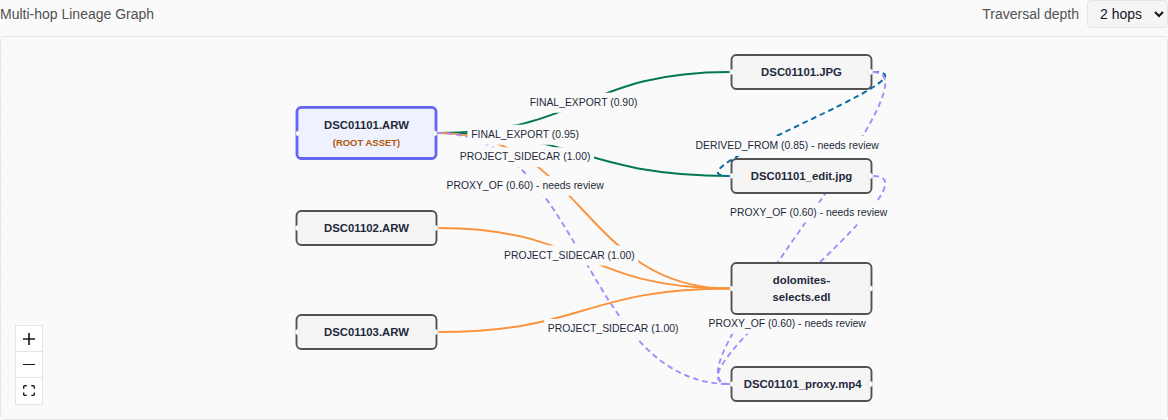
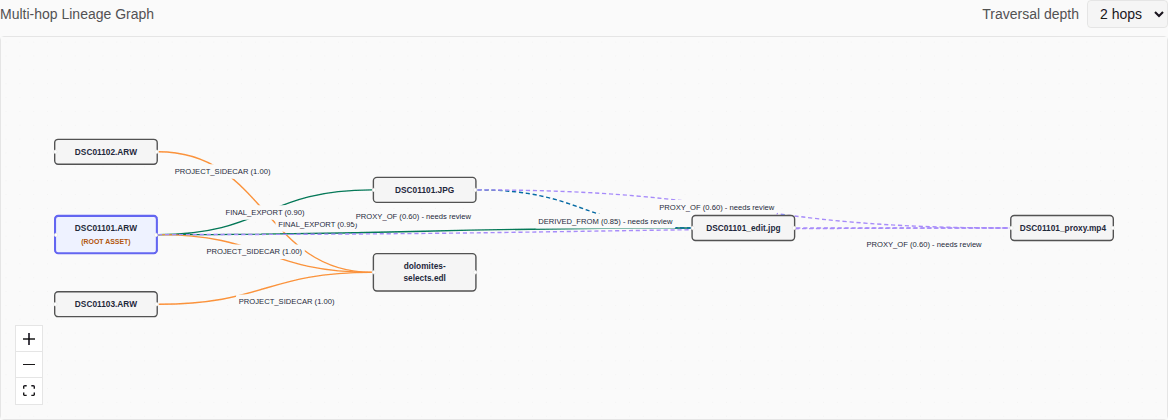
fix(web): lay out the lineage graph by edge direction so no edge loops back (#599)
Columns came from BFS hop distance off the focused asset, so two nodes joined
by an edge could land in the same column and the edge had to loop out of one
right handle and back into the other's left (DSC01101.JPG -> DSC01101_edit.jpg
in the demo). Rank by longest path instead, one column right of the deepest
parent, so every edge is forward. Within a column, nodes are ordered by the
mean height of their parents, then id, to keep edges from crossing and the
order stable across refetches.

No new dependency: these are small DAGs and the ranking is ~40 lines. A back
edge in malformed data is ignored rather than recursed on.

Regenerates asset-graph{,-light}.png. Edges that skip a column can still run
behind a node in between; tracked separately.

Closes #595

Claude-Session: https://claude.ai/code/session_01YT45bsDB4fuLrcMKgwwJBG

diff --git a/web/src/components/AssetGraphCanvas.tsx b/web/src/components/AssetGraphCanvas.tsx
@@ -4,9 +4,10 @@ import { Background, Controls, Position, ReactFlow, ReactFlowProvider, type Node
 import "@xyflow/react/dist/style.css";
 import type { AssetGraph, LineageResponse } from "../api/types";
 import { edgeVisual, labelSpread, type LineageFlowEdge } from "../lib/edgeStyle";
+import { lineageRanks, lineageRows } from "../lib/lineageLayout";
 import LineageEdge from "./LineageEdge";
 
-// Levels run left to right, so edges leave a node's right side and enter the
+// Columns run left to right, so edges leave a node's right side and enter the
 // next one's left; the default top/bottom handles made every edge loop around
 // its nodes and park its label on top of them.
 const HORIZONTAL_HANDLES = { sourcePosition: Position.Right, targetPosition: Position.Left } as const;
@@ -109,73 +110,14 @@ export function buildLineageFlow(rootId: number, lineage: LineageResponse): { no
     return { nodes: [], edges: [], isEmpty: true };
   }
 
-  // Calculate BFS levels relative to root
-  const levels = new Map<number, number>();
-  levels.set(rootId, 0);
-
-  const adjParents = new Map<number, number[]>();
-  const adjChildren = new Map<number, number[]>();
-
-  lineage.edges.forEach((e) => {
-    if (!adjChildren.has(e.sourceNodeId)) adjChildren.set(e.sourceNodeId, []);
-    adjChildren.get(e.sourceNodeId)!.push(e.targetNodeId);
-
-    if (!adjParents.has(e.targetNodeId)) adjParents.set(e.targetNodeId, []);
-    adjParents.get(e.targetNodeId)!.push(e.sourceNodeId);
-  });
-
-  // BFS Upstream (Parents)
-  const qUp: { id: number; level: number }[] = [{ id: rootId, level: 0 }];
-  const visitedUp = new Set<number>([rootId]);
-  while (qUp.length > 0) {
-    const curr = qUp.shift()!;
-    const parents = adjParents.get(curr.id) || [];
-    parents.forEach((p) => {
-      if (!visitedUp.has(p)) {
-        visitedUp.add(p);
-        const l = curr.level - 1;
-        levels.set(p, l);
-        qUp.push({ id: p, level: l });
-      }
-    });
-  }
-
-  // BFS Downstream (Children)
-  const qDown: { id: number; level: number }[] = [{ id: rootId, level: 0 }];
-  const visitedDown = new Set<number>([rootId]);
-  while (qDown.length > 0) {
-    const curr = qDown.shift()!;
-    const children = adjChildren.get(curr.id) || [];
-    children.forEach((c) => {
-      if (!visitedDown.has(c)) {
-        visitedDown.add(c);
-        const l = curr.level + 1;
-        levels.set(c, l);
-        qDown.push({ id: c, level: l });
-      }
-    });
-  }
-
-  // Group nodes by level to compute deterministic positions
-  const levelGroups = new Map<number, number[]>();
-  lineage.nodes.forEach((n) => {
-    const l = levels.get(n.id) ?? 0;
-    if (!levelGroups.has(l)) levelGroups.set(l, []);
-    levelGroups.get(l)!.push(n.id);
-  });
-
-  // Sort node IDs inside level groups for deterministic ordering across refetches
-  levelGroups.forEach((ids) => ids.sort((a, b) => a - b));
+  const ranks = lineageRanks(lineage.nodes.map((n) => n.id), lineage.edges);
+  const rows = lineageRows(ranks, lineage.edges);
 
   const nodes: FlowNode[] = [];
   lineage.nodes.forEach((n) => {
     const isRoot = n.id === rootId;
-    const l = levels.get(n.id) ?? 0;
-    const group = levelGroups.get(l) || [n.id];
-    const index = group.indexOf(n.id);
-
-    const x = l * LEVEL_GAP_X;
-    const y = (index - (group.length - 1) / 2) * 110;
+    const x = (ranks.get(n.id) ?? 0) * LEVEL_GAP_X;
+    const y = rows.get(n.id) ?? 0;
 
     const colors = getNodeCategoryColor(n.fileExt || "");
 

diff --git a/web/src/lib/lineageLayout.ts b/web/src/lib/lineageLayout.ts
@@ -1,0 +1,82 @@
+/** Edge endpoints are all the layout needs; the API's Edge type satisfies it. */
+export interface LayoutEdge {
+  sourceNodeId: number;
+  targetNodeId: number;
+}
+
+/** Vertical gap between nodes in one column. */
+export const ROW_GAP_Y = 110;
+
+/**
+ * Assigns each node a column (rank) so every edge points left to right: a node
+ * sits one column right of its deepest parent (longest-path layering). Ranking
+ * from edge direction, rather than by hop distance from the focused asset,
+ * means two nodes joined by an edge never share a column, so no edge has to
+ * loop back around its own nodes.
+ *
+ * Lineage is a DAG (the graph package refuses cycles), but a back edge in
+ * malformed data is ignored rather than recursing forever.
+ */
+export function lineageRanks(nodeIds: number[], edges: LayoutEdge[]): Map<number, number> {
+  const known = new Set(nodeIds);
+  const parents = new Map<number, number[]>();
+  edges.forEach((e) => {
+    if (e.sourceNodeId === e.targetNodeId || !known.has(e.sourceNodeId) || !known.has(e.targetNodeId)) return;
+    if (!parents.has(e.targetNodeId)) parents.set(e.targetNodeId, []);
+    parents.get(e.targetNodeId)!.push(e.sourceNodeId);
+  });
+
+  const ranks = new Map<number, number>();
+  const visiting = new Set<number>();
+  const visit = (id: number): number => {
+    const done = ranks.get(id);
+    if (done !== undefined) return done;
+    if (visiting.has(id)) return -1; // back edge: contributes nothing
+    visiting.add(id);
+    let rank = 0;
+    for (const p of parents.get(id) ?? []) {
+      const parentRank = visit(p);
+      if (parentRank >= 0) rank = Math.max(rank, parentRank + 1);
+    }
+    visiting.delete(id);
+    ranks.set(id, rank);
+    return rank;
+  };
+  [...nodeIds].sort((a, b) => a - b).forEach(visit);
+  return ranks;
+}
+
+/**
+ * Vertical position of every node: columns are stacked and centred, with each
+ * node ordered by the mean height of its parents (then id, for a stable order
+ * across refetches) so edges between neighbouring columns run roughly flat
+ * instead of crossing.
+ */
+export function lineageRows(ranks: Map<number, number>, edges: LayoutEdge[]): Map<number, number> {
+  const parents = new Map<number, number[]>();
+  edges.forEach((e) => {
+    if (!ranks.has(e.sourceNodeId) || !ranks.has(e.targetNodeId)) return;
+    if (!parents.has(e.targetNodeId)) parents.set(e.targetNodeId, []);
+    parents.get(e.targetNodeId)!.push(e.sourceNodeId);
+  });
+
+  const columns = new Map<number, number[]>();
+  ranks.forEach((rank, id) => {
+    if (!columns.has(rank)) columns.set(rank, []);
+    columns.get(rank)!.push(id);
+  });
+
+  const y = new Map<number, number>();
+  [...columns.keys()]
+    .sort((a, b) => a - b)
+    .forEach((rank) => {
+      const ids = columns.get(rank)!;
+      const barycentre = (id: number): number => {
+        const placed = (parents.get(id) ?? []).filter((p) => y.has(p));
+        return placed.length === 0 ? 0 : placed.reduce((sum, p) => sum + y.get(p)!, 0) / placed.length;
+      };
+      ids.sort((a, b) => barycentre(a) - barycentre(b) || a - b);
+      ids.forEach((id, i) => y.set(id, (i - (ids.length - 1) / 2) * ROW_GAP_Y));
+    });
+  return y;
+}

diff --git a/web/src/lib/lineageLayout.test.ts b/web/src/lib/lineageLayout.test.ts
@@ -1,0 +1,54 @@
+import { describe, expect, it } from "vitest";
+import { lineageRanks, lineageRows, ROW_GAP_Y } from "./lineageLayout";
+
+const e = (sourceNodeId: number, targetNodeId: number) => ({ sourceNodeId, targetNodeId });
+
+describe("lineageRanks (#595)", () => {
+  it("puts a child one column right of its deepest parent, so same-level edges disappear", () => {
+    // 1 -> 2 -> 4 and 1 -> 3, 3 -> 4: a hop-distance layout puts 2 and 3 in one
+    // column (3 -> 4 would then fan back), longest-path puts 4 right of both.
+    const ranks = lineageRanks([1, 2, 3, 4], [e(1, 2), e(1, 3), e(2, 4), e(3, 4)]);
+    expect([1, 2, 3, 4].map((id) => ranks.get(id))).toEqual([0, 1, 1, 2]);
+  });
+
+  it("separates two siblings joined by an edge (the demo hero's JPG -> edit.jpg case)", () => {
+    // raw 1 produces both the JPG 2 and the edit 3, and the JPG is the edit's parent.
+    const ranks = lineageRanks([1, 2, 3], [e(1, 2), e(1, 3), e(2, 3)]);
+    expect(ranks.get(3)!).toBeGreaterThan(ranks.get(2)!);
+  });
+
+  it("points every edge forward for any DAG", () => {
+    const edges = [e(5, 1), e(5, 2), e(1, 3), e(2, 3), e(3, 4), e(5, 4), e(2, 6)];
+    const ranks = lineageRanks([1, 2, 3, 4, 5, 6], edges);
+    edges.forEach((edge) => expect(ranks.get(edge.targetNodeId)!).toBeGreaterThan(ranks.get(edge.sourceNodeId)!));
+  });
+
+  it("places unconnected nodes in the first column", () => {
+    expect(lineageRanks([1, 2], []).get(2)).toBe(0);
+  });
+
+  it("survives a cycle and ignores edges to unknown nodes", () => {
+    const ranks = lineageRanks([1, 2], [e(1, 2), e(2, 1), e(1, 99), e(7, 7)]);
+    expect(ranks.size).toBe(2);
+    expect(Number.isFinite(ranks.get(1))).toBe(true);
+  });
+});
+
+describe("lineageRows", () => {
+  it("centres each column and spaces its nodes by ROW_GAP_Y", () => {
+    const ranks = lineageRanks([1, 2, 3], [e(1, 2), e(1, 3)]);
+    const rows = lineageRows(ranks, [e(1, 2), e(1, 3)]);
+    expect(rows.get(1)).toBe(0);
+    expect(rows.get(3)! - rows.get(2)!).toBe(ROW_GAP_Y);
+    expect(rows.get(2)! + rows.get(3)!).toBe(0);
+  });
+
+  it("orders a column by its parents' height, to keep edges from crossing", () => {
+    // 10 sits above 20 (by id); 21's parent is 10 and 11's is 20, so 21 must be
+    // placed above 11 even though 11 has the smaller id.
+    const edges = [e(10, 21), e(20, 11)];
+    const ranks = lineageRanks([10, 20, 11, 21], edges);
+    const rows = lineageRows(ranks, edges);
+    expect(rows.get(21)!).toBeLessThan(rows.get(11)!);
+  });
+});
